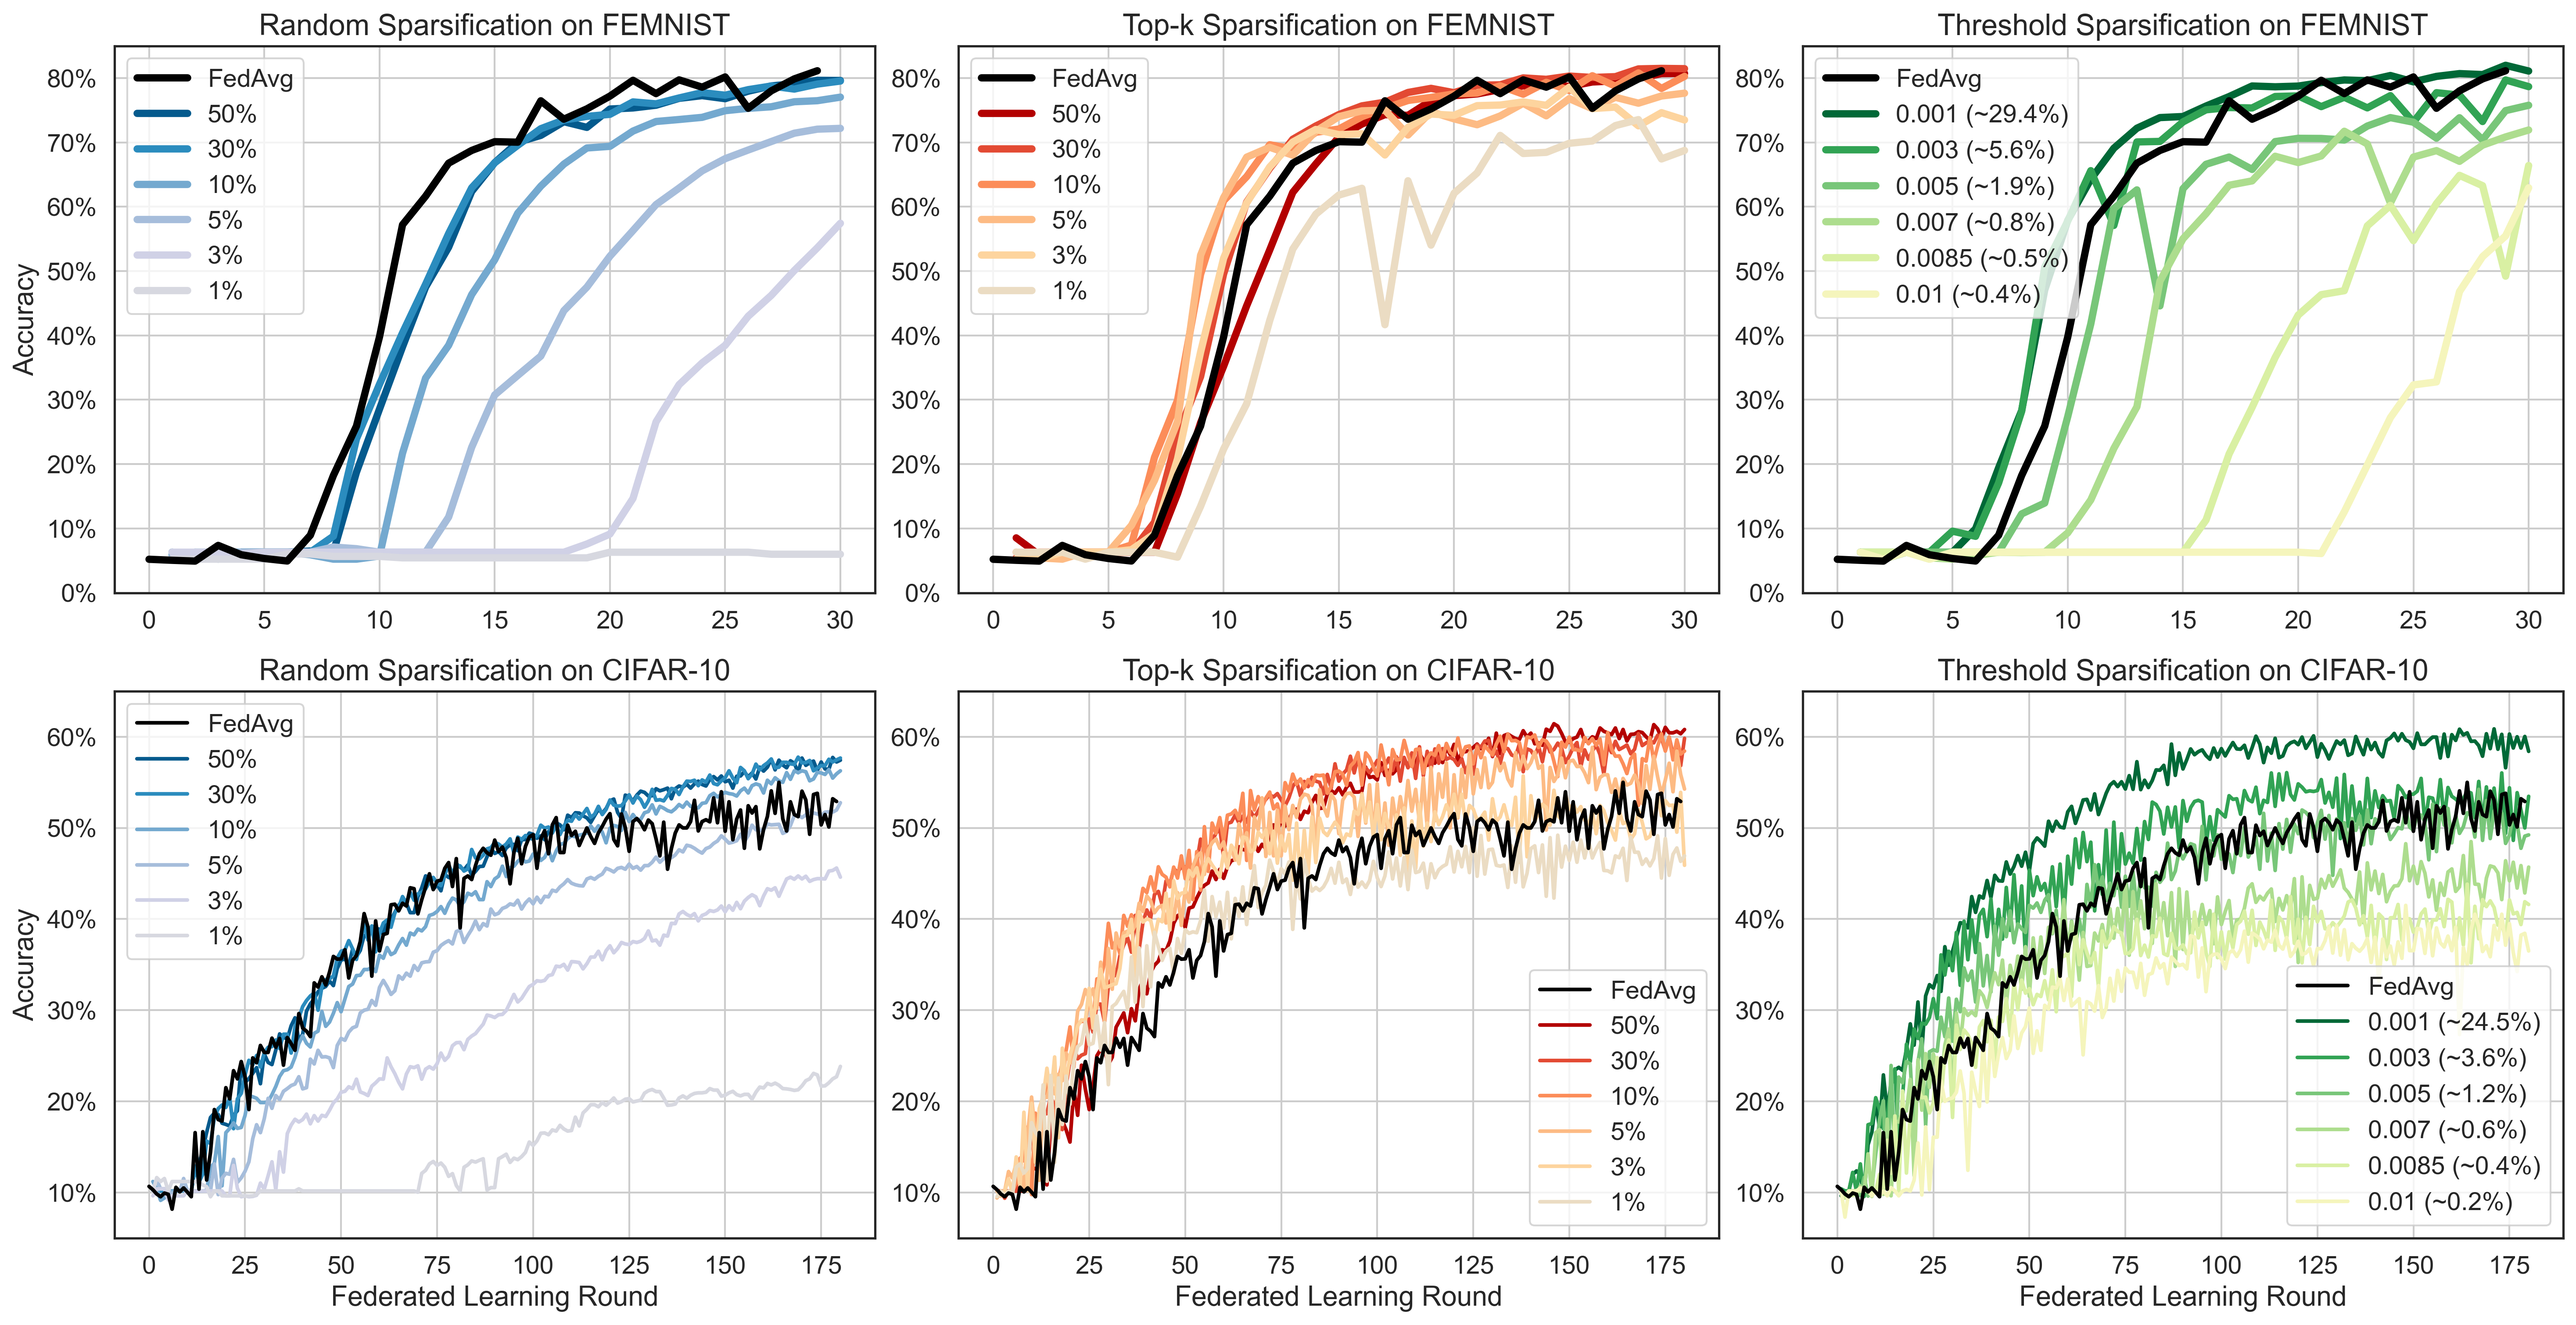
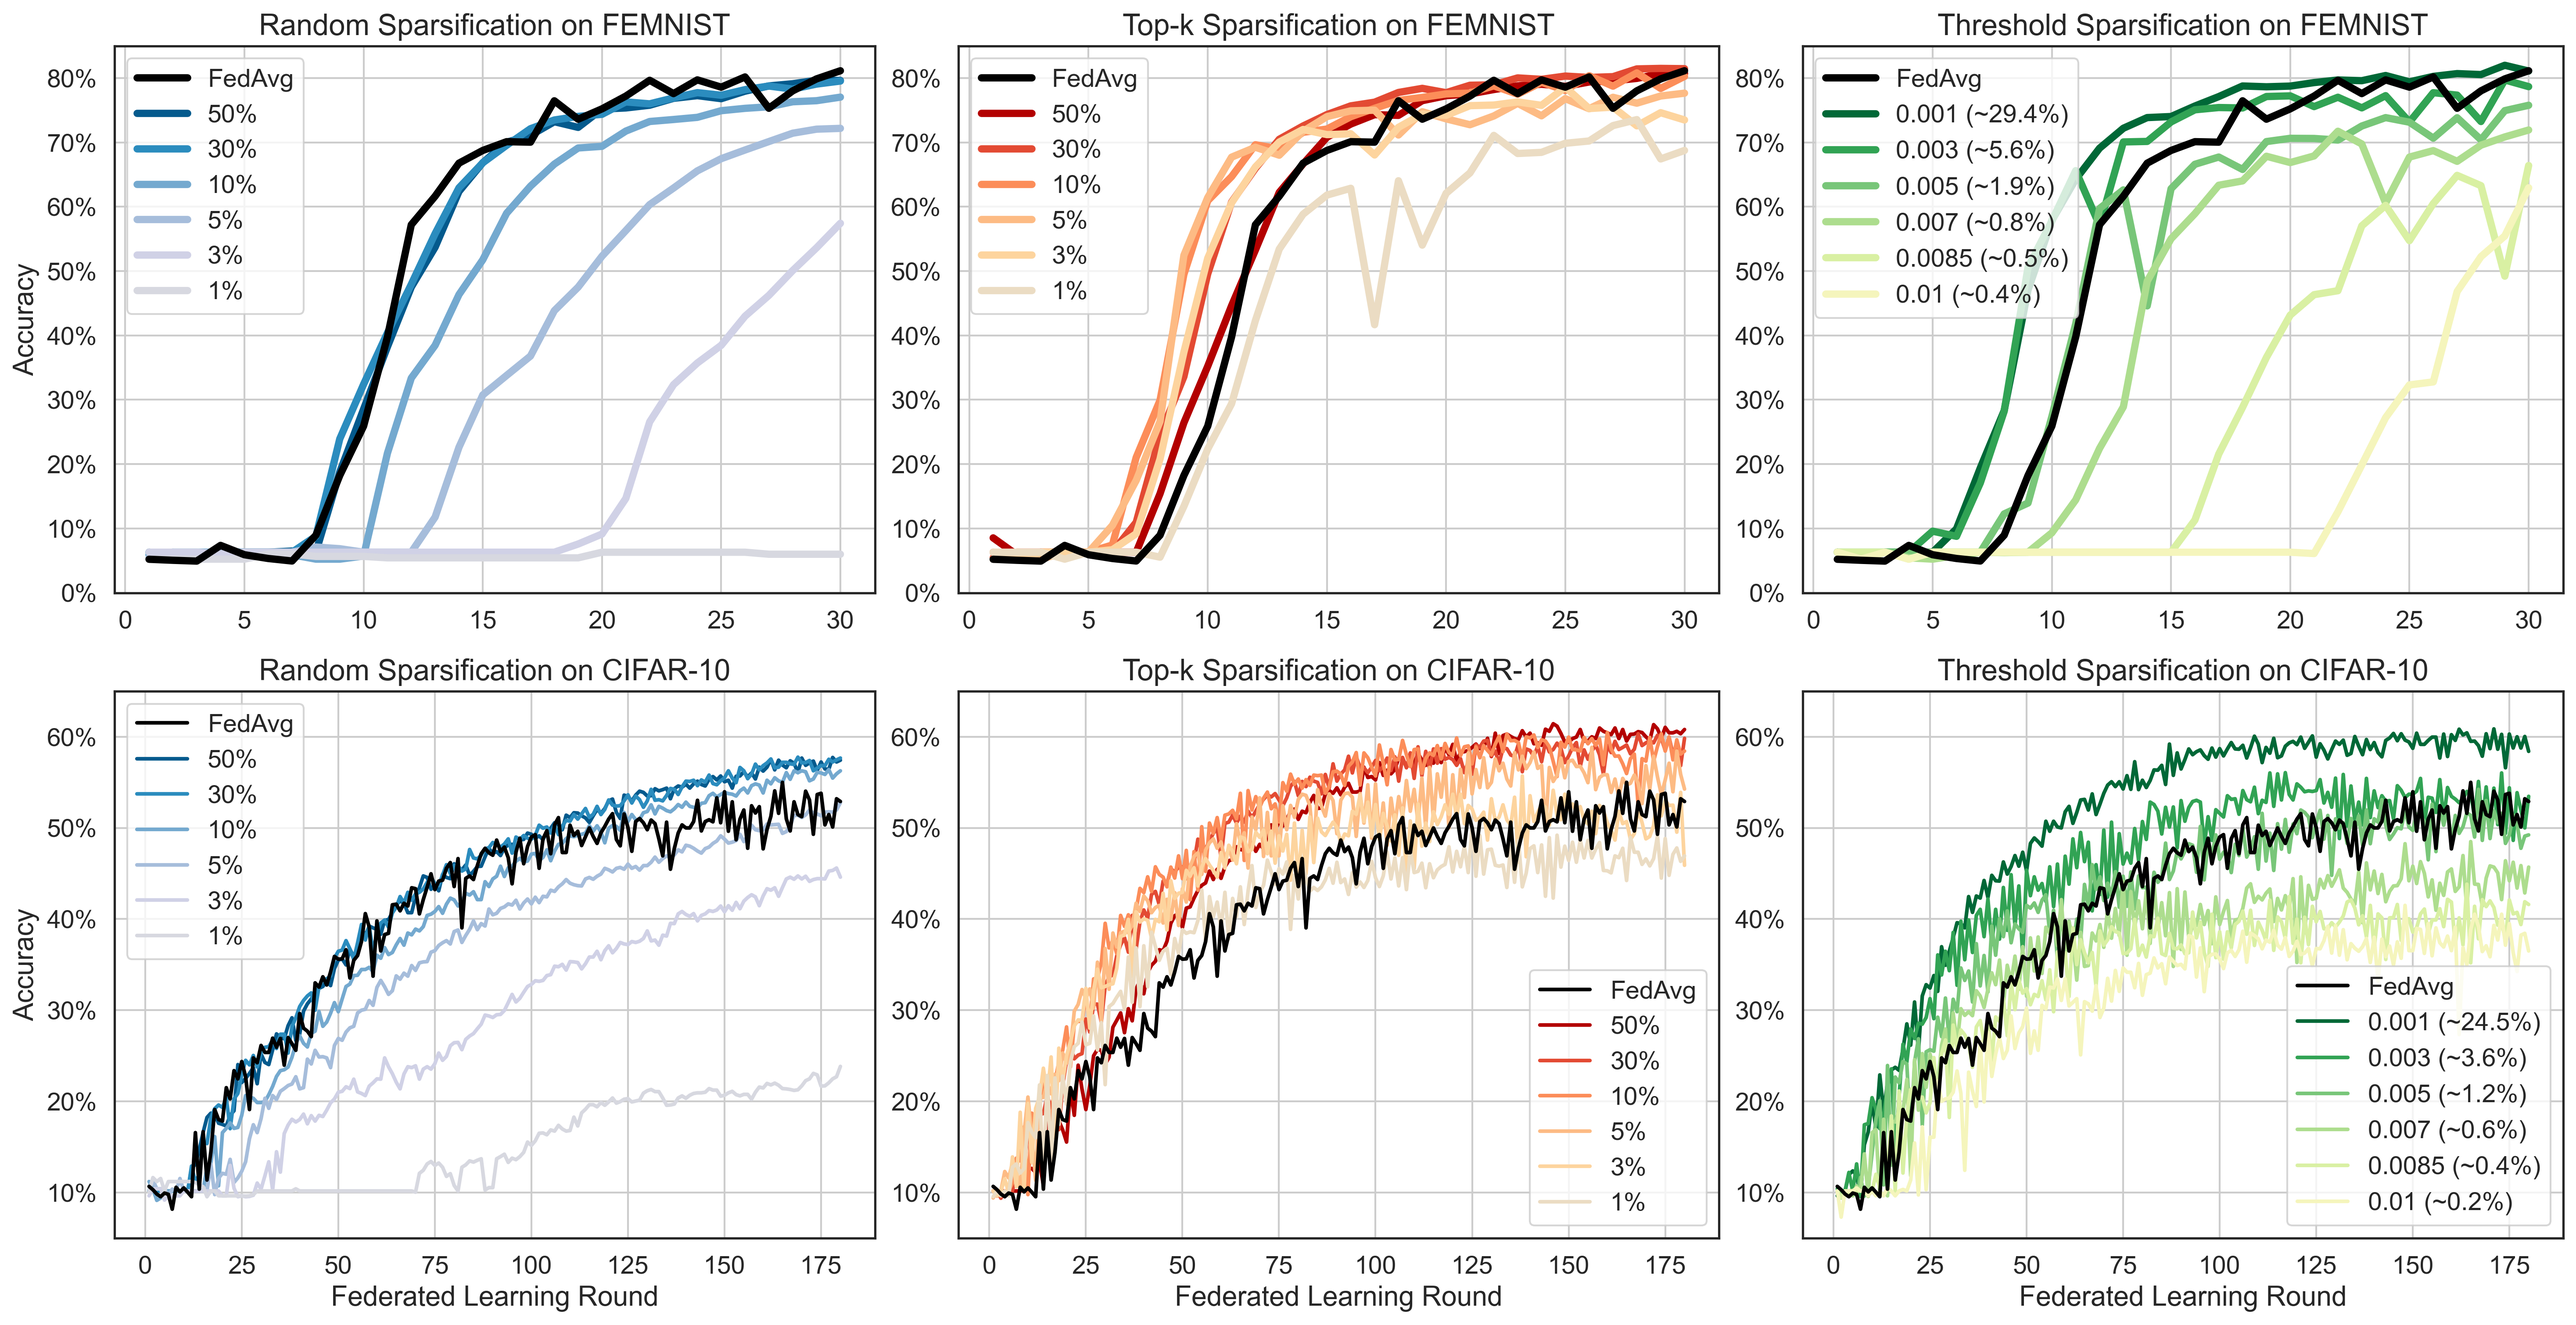
Update figures

diff --git a/sparsification/generate_plots.py b/sparsification/generate_plots.py
@@ -7,6 +7,7 @@ import seaborn as sns
 import matplotlib.pyplot as plt
 import matplotlib.text as mtext
 import matplotlib.ticker as mtick
+import matplotlib.patheffects as PathEffects
 import ast
 import oapackage
 import random
@@ -36,12 +37,12 @@ def plot_cifar_distribution():
     axes[0].legend(title="Class", loc=(2.05, 0.04), handlelength=1.5, handleheight=2, handletextpad=0.3)
     axes[1].legend().remove()
 
-    axes[0].set_xlabel("Number of datapoints") 
-    axes[1].set_xlabel("Number of datapoints") 
+    axes[0].set_xlabel("Number of Datapoints") 
+    axes[1].set_xlabel("Number of Datapoints") 
     axes[0].set_ylabel("")
     axes[1].set_ylabel("")
-    axes[0].set_title(f"Distribution of CIFAR-10 classes\nin the training dataset on 10 example clients", fontsize=16)
-    axes[1].set_title(f"Distribution of CIFAR-10 classes\nin the test dataset on 10 example clients", fontsize=16)
+    axes[0].set_title(f"Distribution of CIFAR-10 Classes\nin the Training Dataset on 10 Example Clients", fontsize=16)
+    axes[1].set_title(f"Distribution of CIFAR-10 Classes\nin the Test Dataset on 10 Example Clients", fontsize=16)
     axes[0].grid(alpha=0.4, axis="x")
     axes[1].grid(alpha=0.4, axis="x")
 
@@ -76,9 +77,9 @@ def plot_femnist_distribution():
     classes_counts.plot(x="client", y=list(range(62)), kind="barh", stacked=True, width=0.8, color=mpn65, ax=ax)
     ax.get_legend().remove()
 
-    ax.set_xlabel("Number of datapoints") 
+    ax.set_xlabel("Number of Datapoints") 
     ax.set_ylabel("")
-    ax.set_title(f"Distribution of FEMNIST classes on 10 example clients", fontsize=16)
+    ax.set_title(f"Distribution of FEMNIST Classes on 10 Example Clients", fontsize=16)
     ax.grid(alpha=0.4, axis="x")
     
     plt.savefig(f"figures/femnist_class_distribution.png", 
@@ -118,7 +119,9 @@ def plot_download_size():
     
 def plot_sparsification_pareto():
     all_results = pd.read_csv("results/results.csv")
+    extra_topk = pd.read_csv("results/threshold_vs_topk.csv").iloc[:,:-1]
     all_results = all_results[all_results["keep_first_last"]==False].reset_index(drop=True)
+    all_results = pd.concat([all_results, extra_topk]).drop_duplicates().reset_index(drop=True)
     all_results["max_accuracy"] = all_results["accs"].apply(lambda row: max([value[1] for value in ast.literal_eval(row)]))
 
     palette = ['#2b8cbe', '#e34a33', '#31a354']
@@ -213,10 +216,10 @@ def plot_sparsification_pareto():
             axes[1, x].set_xlabel("Bytes Uploaded by a Client")
             axes[0, x].set_xlabel("")
 
-    axes[0, 0].set_title("Bytes Uploaded vs Accuracy\nfor Sparsificiation Methods on FEMNIST")
-    axes[0, 1].set_title("Pareto Optimal Sparsification Methods on FEMNIST")
-    axes[1, 0].set_title("Bytes Uploaded vs Accuracy\nfor Sparsificiation Methods on CIFAR-10")
-    axes[1, 1].set_title("Pareto Optimal Sparsification Methods on CIFAR-10")
+    axes[0, 0].set_title("Bytes Uploaded vs Accuracy\nfor Sparsification Approaches on FEMNIST")
+    axes[0, 1].set_title("Pareto Optimal Sparsification Approaches on FEMNIST")
+    axes[1, 0].set_title("Bytes Uploaded vs Accuracy\nfor Sparsification Approaches on CIFAR-10")
+    axes[1, 1].set_title("Pareto Optimal Sparsification Approaches on CIFAR-10")
 
     plt.savefig(f"figures/pareto_front_sparsification.png", 
                 dpi=300,
@@ -228,18 +231,7 @@ def plot_combined_pareto():
     combined_results = pd.read_csv("results/combined_results.csv")
     combined_results["Total Bytes Uploaded"] = combined_results["Total Bytes Uploaded"].astype(np.float64)
     combined_results["Client Bytes Uploaded"] = combined_results["Client Bytes Uploaded"].astype(np.float64)
-
-    class LegendTitle(object):
-        def __init__(self, text_props=None):
-            self.text_props = text_props or {}
-            super(LegendTitle, self).__init__()
-
-        def legend_artist(self, legend, orig_handle, fontsize, handlebox):
-            x0, y0 = handlebox.xdescent, handlebox.ydescent
-            title = mtext.Text(x0, y0, orig_handle,  **self.text_props)
-            handlebox.add_artist(title)
-            return title
-
+    
     sns.set_theme(style='white', font_scale=1.25)
     fig, axes = plt.subplots(ncols=2, 
                             nrows=2, 
@@ -350,17 +342,6 @@ def plot_keep_first_last_comparison():
     ylim = [0, 85]
     linewidth = 4
 
-    class LegendTitle(object):
-        def __init__(self, text_props=None):
-            self.text_props = text_props or {}
-            super(LegendTitle, self).__init__()
-
-        def legend_artist(self, legend, orig_handle, fontsize, handlebox):
-            x0, y0 = handlebox.xdescent, handlebox.ydescent
-            title = mtext.Text(x0, y0, orig_handle,  **self.text_props)
-            handlebox.add_artist(title)
-            return title
-
     sns.set_theme(style='white', font_scale=1.25)
     fig, ax = plt.subplots(figsize=(8, 6))
 
@@ -406,7 +387,8 @@ def plot_keep_first_last_comparison():
        borderpad=0.5,
        loc=(0.005, 0.435))
     ax.set_title("Results when forcing (or not) the selection\nof the first and last layers of the model", fontsize=16);
-    plt.gcf().set_dpi(300)
+    ax.set_xlabel("Federated Learning Round")
+    ax.set_ylabel("Accuracy")
     plt.savefig(f"figures/keep_first_last_comparison.png", 
             dpi=300,
             bbox_inches="tight",
@@ -432,11 +414,13 @@ def plot_all_accuracy_rounds():
                              figsize=(8*3, 6*2),
                              gridspec_kw={"wspace": 0.11, "hspace":0.18})
 
-    axes[0, 0].plot(fedavg_femnist, 
-                    color="black",
-                    linewidth=4,
-                    label="FedAvg",
-                    zorder=100)
+    sns.lineplot(x=range(1, len(fedavg_femnist)+1),
+                 y=fedavg_femnist,
+                 color="black",
+                 linewidth=4,
+                 label="FedAvg",
+                 zorder=100,
+                 ax=axes[0, 0])
     sns.lineplot(data=results[(results["approach"]=="Random") & (results["dataset"]=="FEMNIST")].sort_values("spars_label", ascending=False), 
                  x="round", 
                  y="accuracy", 
@@ -447,11 +431,13 @@ def plot_all_accuracy_rounds():
                  ax=axes[0, 0])
     axes[0, 0].set_title("Random Sparsification on FEMNIST", fontsize=16)
 
-    axes[0, 1].plot(fedavg_femnist, 
-                    color="black",
-                    linewidth=4,
-                    label="FedAvg",
-                    zorder=100)
+    sns.lineplot(x=range(1, len(fedavg_femnist)+1),
+                 y=fedavg_femnist,
+                 color="black",
+                 linewidth=4,
+                 label="FedAvg",
+                 zorder=100,
+                 ax=axes[0, 1])
     sns.lineplot(data=results[(results["approach"]=="Top-k") & (results["dataset"]=="FEMNIST")].sort_values("spars_label", ascending=False), 
                  x="round", 
                  y="accuracy", 
@@ -462,11 +448,13 @@ def plot_all_accuracy_rounds():
                  ax=axes[0, 1])
     axes[0, 1].set_title("Top-k Sparsification on FEMNIST", fontsize=16)
 
-    axes[0, 2].plot(fedavg_femnist, 
-                    color="black",
-                    linewidth=4,
-                    label="FedAvg",
-                    zorder=100)
+    sns.lineplot(x=range(1, len(fedavg_femnist)+1),
+                 y=fedavg_femnist,
+                 color="black",
+                 linewidth=4,
+                 label="FedAvg",
+                 zorder=100,
+                 ax=axes[0, 2])
     sns.lineplot(data=results[(results["approach"]=="Threshold") & (results["dataset"]=="FEMNIST")].sort_values("spars_label", ascending=True), 
                  x="round", 
                  y="accuracy", 
@@ -476,11 +464,13 @@ def plot_all_accuracy_rounds():
                  ax=axes[0, 2])
     axes[0, 2].set_title("Threshold Sparsification on FEMNIST", fontsize=16)
 
-    axes[1, 0].plot(fedavg_cifar, 
-                    color="black",
-                    linewidth=2,
-                    label="FedAvg",
-                    zorder=100)
+    sns.lineplot(x=range(1, len(fedavg_cifar)+1),
+                 y=fedavg_cifar,
+                 color="black",
+                 linewidth=2,
+                 label="FedAvg",
+                 zorder=100,
+                 ax=axes[1, 0])
     sns.lineplot(data=results[(results["approach"]=="Random") & (results["dataset"]=="CIFAR-10")].sort_values("spars_label", ascending=False), 
                  x="round", 
                  y="accuracy", 
@@ -491,11 +481,13 @@ def plot_all_accuracy_rounds():
                  ax=axes[1, 0])
     axes[1, 0].set_title("Random Sparsification on CIFAR-10", fontsize=16)
 
-    axes[1, 1].plot(fedavg_cifar, 
-                    color="black",
-                    linewidth=2,
-                    label="FedAvg",
-                    zorder=100)
+    sns.lineplot(x=range(1, len(fedavg_cifar)+1),
+                 y=fedavg_cifar,
+                 color="black",
+                 linewidth=2,
+                 label="FedAvg",
+                 zorder=100,
+                 ax=axes[1, 1])
     sns.lineplot(data=results[(results["approach"]=="Top-k") & (results["dataset"]=="CIFAR-10")].sort_values("spars_label", ascending=False), 
                  x="round", 
                  y="accuracy", 
@@ -506,11 +498,13 @@ def plot_all_accuracy_rounds():
                  ax=axes[1, 1])
     axes[1, 1].set_title("Top-k Sparsification on CIFAR-10", fontsize=16)
 
-    axes[1, 2].plot(fedavg_cifar, 
-                    color="black",
-                    linewidth=2,
-                    label="FedAvg",
-                    zorder=100)
+    sns.lineplot(x=range(1, len(fedavg_cifar)+1),
+                 y=fedavg_cifar,
+                 color="black",
+                 linewidth=2,
+                 label="FedAvg",
+                 zorder=100,
+                 ax=axes[1, 2])
     sns.lineplot(data=results[(results["approach"]=="Threshold") & (results["dataset"]=="CIFAR-10")].sort_values("spars_label", ascending=True), 
                  x="round", 
                  y="accuracy", 
@@ -636,8 +630,8 @@ def plot_parameter_difference():
                      edgecolor="white", 
                      align="mid",
                      color="#2b8cbe")
-    axes[0].set_xlabel("Size of difference")
-    axes[0].set_ylabel("Number of parameters")
+    axes[0].set_xlabel("Size of Difference")
+    axes[0].set_ylabel("Number of Parameters")
     axes[0].set_xlim([-0.05, 0.05])
 
     axes[1].hist(np.abs(delta_params),
@@ -645,13 +639,13 @@ def plot_parameter_difference():
                      edgecolor="white", 
                      align="mid",
                      color="#2b8cbe")
-    axes[1].set_ylabel("Number of parameters (log scale)")
-    axes[1].set_xlabel("Size of absolute difference (log scale)")
+    axes[1].set_ylabel("Number of Parameters (Log Scale)")
+    axes[1].set_xlabel("Size of Absolute Difference (Log Scale)")
     axes[1].set_yscale("log")
     axes[1].set_xscale("log")
     axes[1].set_xlim([axes[1].get_xlim()[0], 0.15])
 
-    fig.suptitle("The size of the difference to each of the model parameters before and after model training", fontsize=16, y=0.935);
+    fig.suptitle("The Size of the Difference to each of the Model Parameters Before and After Model Training", fontsize=16, y=0.935);
 
     plt.savefig(f"figures/size_difference_parameters.png", 
                 dpi=300,
@@ -823,3 +817,14 @@ def plot_threshold_over_time():
                 dpi=300,
                 bbox_inches="tight",
                 facecolor="white")
+    
+class LegendTitle(object):
+    def __init__(self, text_props=None):
+        self.text_props = text_props or {}
+        super(LegendTitle, self).__init__()
+
+    def legend_artist(self, legend, orig_handle, fontsize, handlebox):
+        x0, y0 = handlebox.xdescent, handlebox.ydescent
+        title = mtext.Text(x0, y0, orig_handle,  **self.text_props)
+        handlebox.add_artist(title)
+        return title

diff --git a/sparsification/generate_tables.py b/sparsification/generate_tables.py
@@ -4,7 +4,9 @@ import numpy as np
 
 def goal_accuracy_table():
     original_results = pd.read_csv("results/results.csv")
+    extra_topk = pd.read_csv("results/threshold_vs_topk.csv").iloc[:,:-1]
     original_results = original_results[original_results["keep_first_last"]==False].reset_index(drop=True)
+    original_results = pd.concat([original_results, extra_topk]).drop_duplicates().reset_index(drop=True)
     results = original_results.copy()
     results["accs"] = results["accs"].apply(lambda row: ast.literal_eval(row))
     results = results.explode("accs").reset_index(drop=True)
@@ -19,7 +21,7 @@ def goal_accuracy_table():
                        "round"]].reset_index(drop=True)
 
     size_results = {"dataset":[], "approach":[], "spars_label":[], "round":[], "accuracy_reached":[]}
-    for goal in [10, 20, 30, 40, 50, 60, 70, 80]:
+    for goal in range(10, 90, 5):
         for group in results.groupby(["dataset", "approach", "spars_label"]):
             first_round_over_thresh = group[1][group[1]["accuracy"]>=goal]["round"].values
             if len(first_round_over_thresh) > 0:
@@ -37,5 +39,5 @@ def goal_accuracy_table():
 
     top = size_results.sort_values("bytes_communicated").groupby(["dataset", "accuracy_reached"]).head(1).sort_values(["dataset", "accuracy_reached"]).reset_index(drop=True)
     
-    size_results.to_csv("results/goal_accuracies.csv", index=False)
-    top.to_csv("results/top_goal_accuracy.csv", index=False)
+size_results.to_csv("results/goal_accuracies.csv", index=False)
+top.to_csv("results/top_goal_accuracy.csv", index=False)
